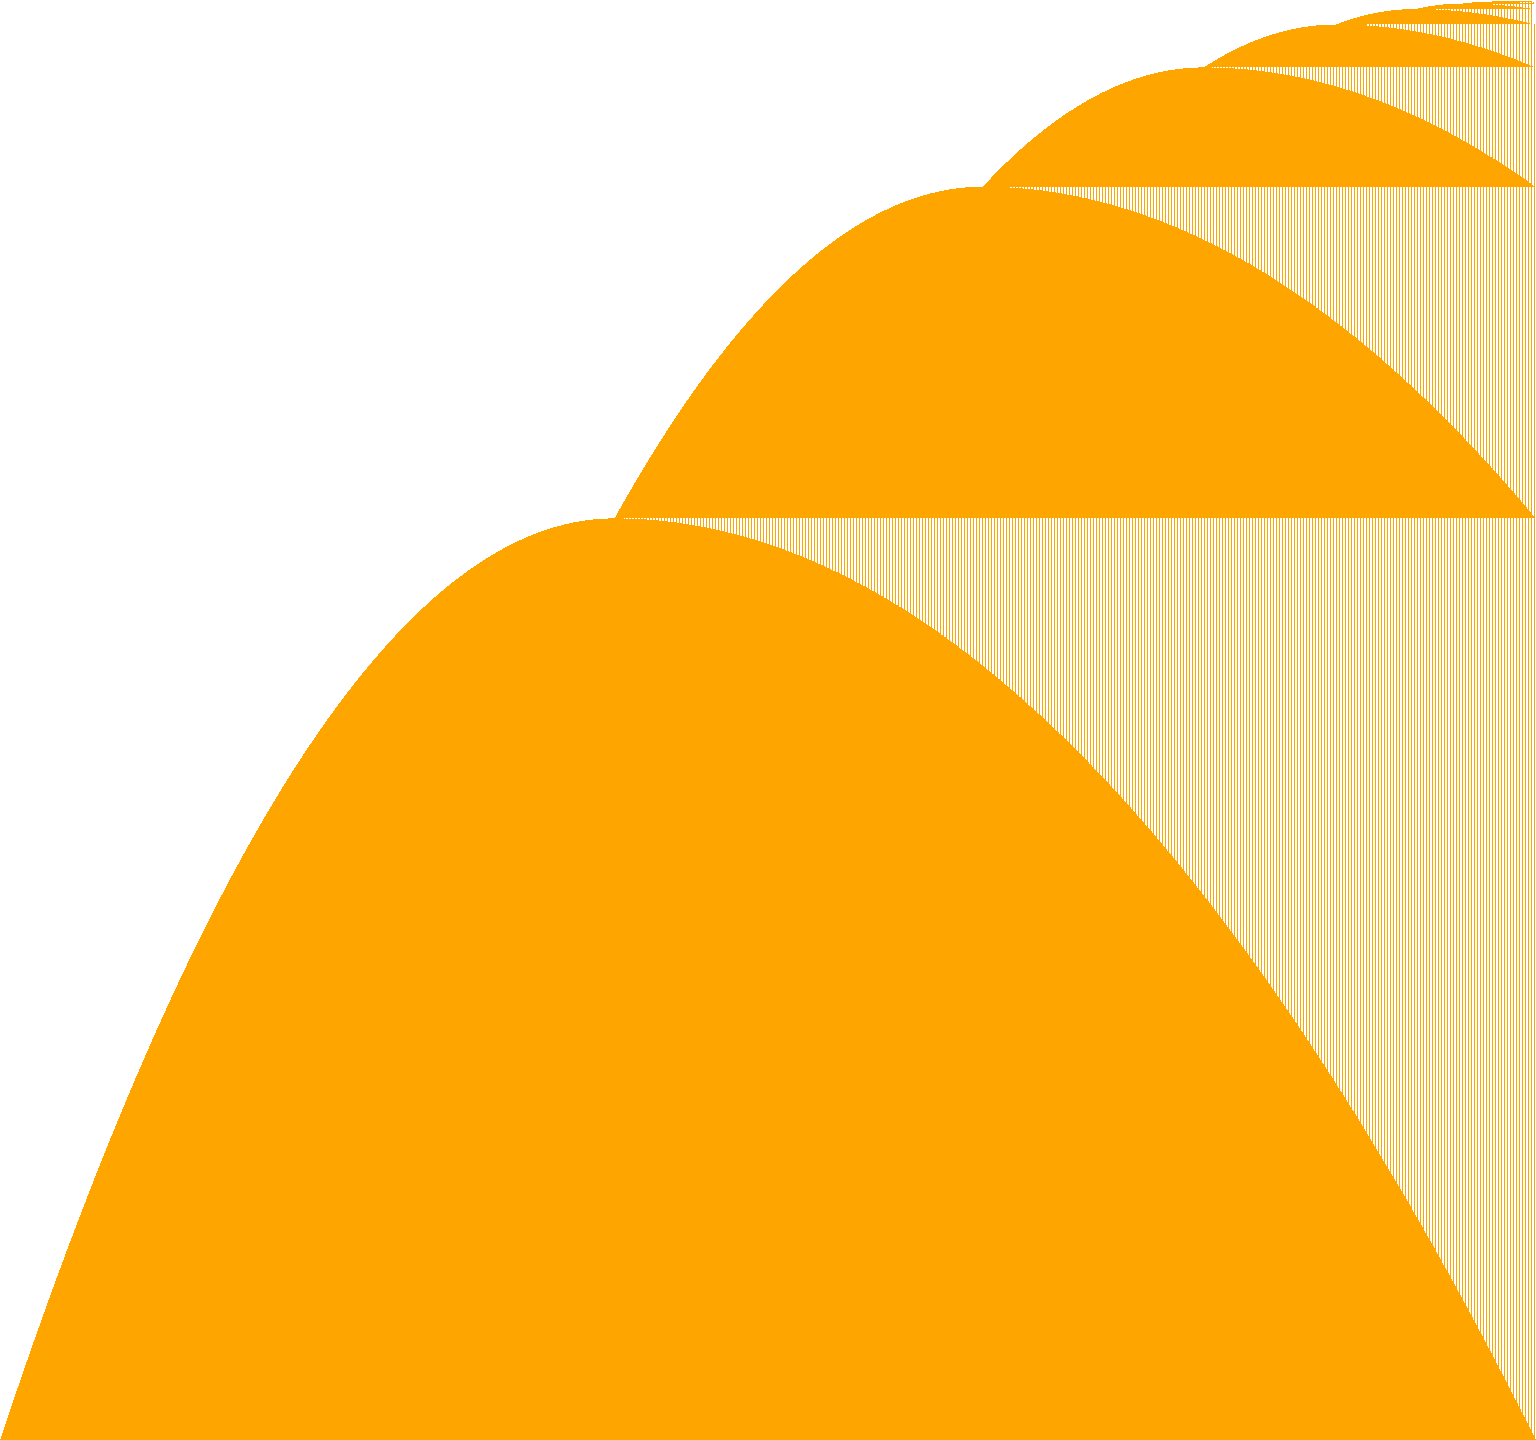
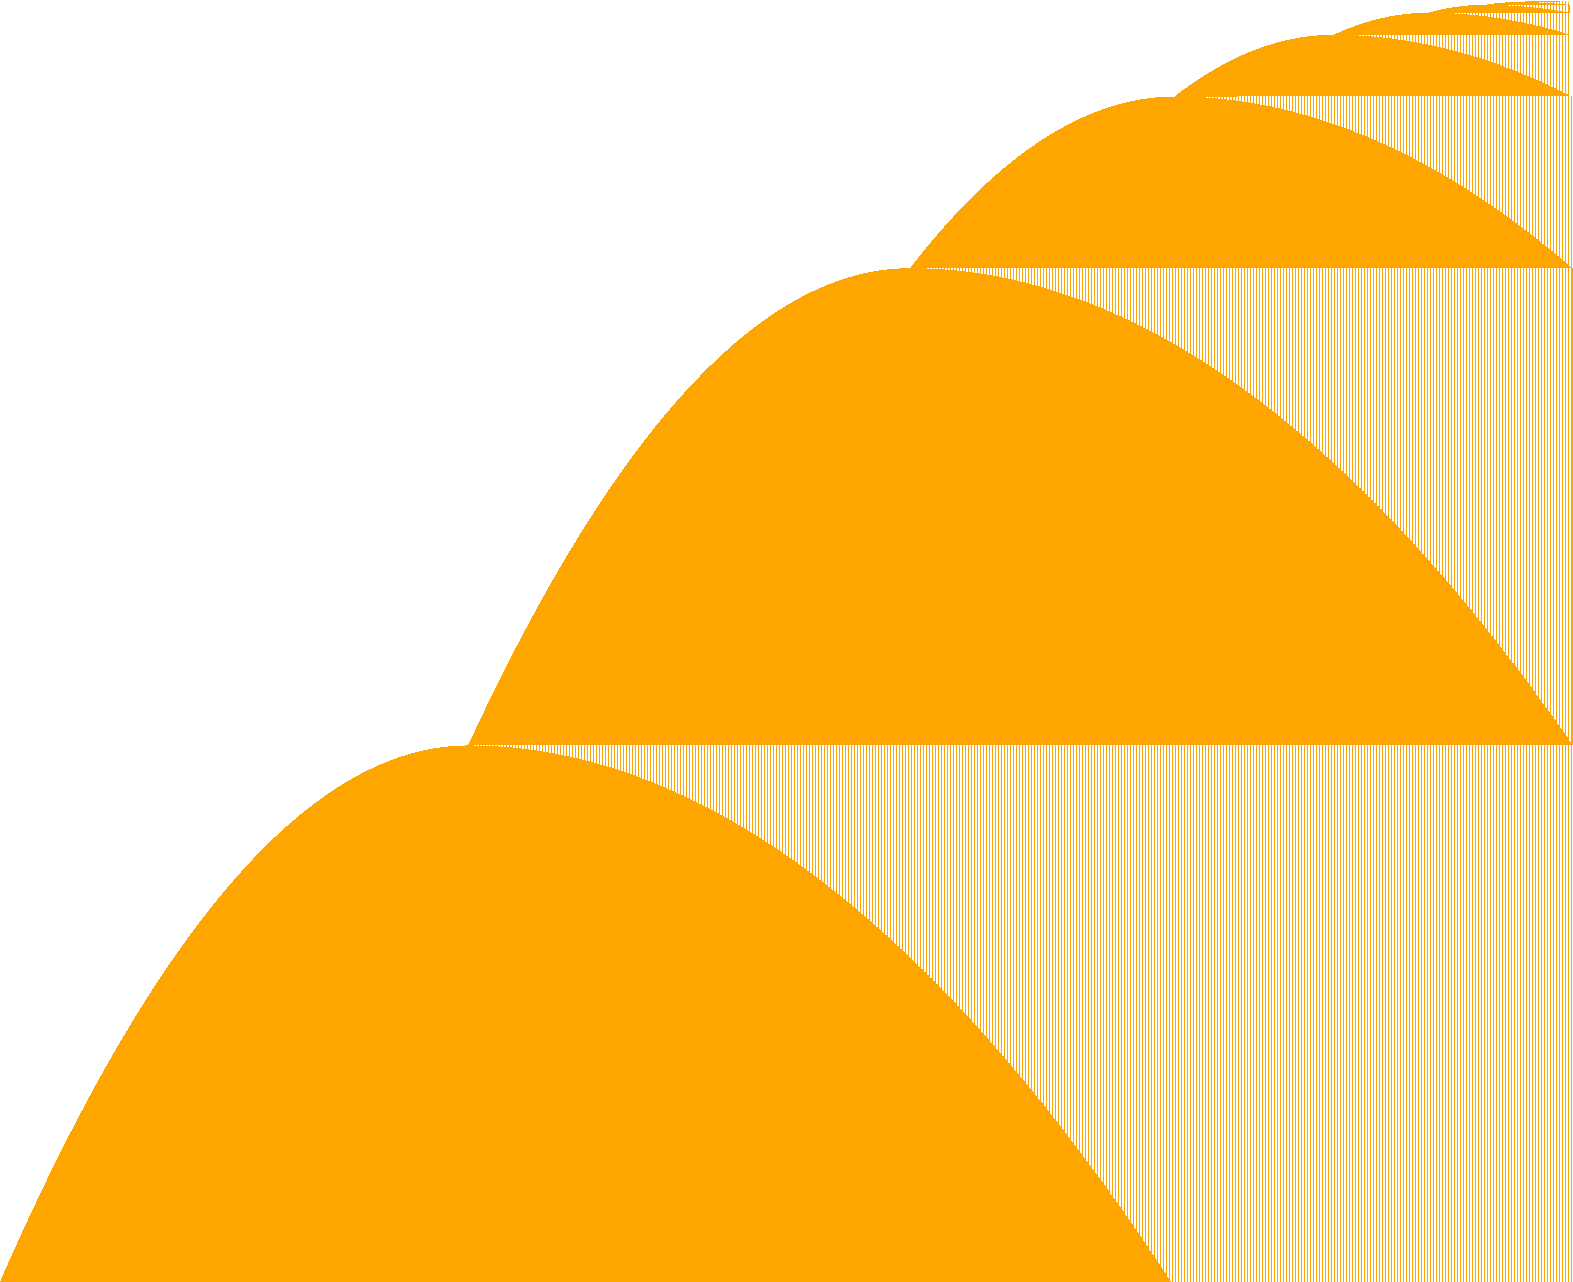
image in WASM works!

diff --git a/index.html b/index.html
@@ -20,7 +20,9 @@
 0	1RB	1RC	1RD	1LA	1RH
 1	1LC	1RB	0LE	1LD	0LA</textarea>
     <button id="runButton">Run</button>
-    <p id="result">Steps: </p>
+    <div>
+        <img id="resultImage" alt="Space-time diagram" style="max-width: 100%;">
+    </div>
     <script type="module">
         import init, { Machine } from './pkg/busy_beaver.js';
 
@@ -28,15 +30,17 @@
             await init();
             
             const textarea = document.getElementById('programInput');
-            const result = document.getElementById('result');
+            const resultImage = document.getElementById('resultImage');
             
             document.getElementById('runButton').addEventListener('click', () => {
                 try {
                     const machine = new Machine(textarea.value);
-                    const steps = machine.count_js(10_000_000);
-                    result.textContent = `Steps: ${steps.toLocaleString()}`;
+                    const png_data = machine.space_time_js(720, 864, null);
+                    const blob = new Blob([png_data], { type: 'image/png' });
+                    resultImage.src = URL.createObjectURL(blob);
                 } catch (e) {
-                    result.textContent = `Error: ${e}`;
+                    console.error(e);
+                    resultImage.alt = `Error: ${e}`;
                 }
             });
         }

diff --git a/src/lib.rs b/src/lib.rs
@@ -82,9 +82,9 @@ impl Tape {
             .sum()
     }
 
-    fn index_to_string(&self, index: i32) -> String {
-        let mut s = format!("{}: ", index);
-        for i in -10..=self.max_index() {
+    fn index_range_to_string(&self, range: std::ops::RangeInclusive<i32>) -> String {
+        let mut s = String::new();
+        for i in range {
             s.push_str(&self[i].to_string());
         }
         s
@@ -127,13 +127,25 @@ impl Machine {
     }
 
     #[wasm_bindgen]
-    pub fn count_js(&mut self, debug_interval: usize) -> usize {
+    pub fn space_time_js(&mut self, goal_x: u32, goal_y: u32, early_stop: Option<u32>) -> Vec<u8> {
+        let mut sampled_space_time = SampledSpaceTime::new(goal_x, goal_y);
+
+        while self.next().is_some()
+            && early_stop.is_none_or(|early_stop| sampled_space_time.step_count < early_stop)
+        {
+            sampled_space_time.snapshot(&self);
+        }
+
+        sampled_space_time
+            .to_png()
+            .unwrap_or_else(|e| format!("{:?}", e).into_bytes())
+    }
+
+    #[wasm_bindgen]
+    pub fn count_js(&mut self, early_stop: Option<u32>) -> u32 {
         let mut step_count = 0;
 
-        while self.step() {
-            // if step_count % debug_interval == 0 {
-            //     println!("Step {}: {:?}", step_count.separate_with_commas(), self);
-            // }
+        while self.next().is_some() && early_stop.is_none_or(|early_stop| step_count < early_stop) {
             step_count += 1;
         }
 
@@ -171,15 +183,16 @@ impl Iterator for Machine {
 
     fn next(&mut self) -> Option<Self::Item> {
         let program = &self.program;
-        if self.state as usize >= program.state_count {
-            return None;
-        }
         let input = self.tape[self.tape_index];
         let per_input = &program.inner[self.state as usize][input as usize];
         self.tape[self.tape_index] = per_input.next_symbol;
         self.tape_index += per_input.direction as i32;
         self.state = per_input.next_state;
-        Some(())
+        if (self.state as usize) < program.state_count {
+            Some(())
+        } else {
+            None
+        }
     }
 }
 
@@ -381,7 +394,8 @@ impl Default for Spaceline {
     }
 }
 
-struct Timeline {
+struct SampledSpaceTime {
+    step_count: u32,
     x_goal: u32,
     y_goal: u32,
     sample: u32,
@@ -392,23 +406,104 @@ struct Timeline {
 /// and the y_goal (time). The sample starts at 1 and
 /// inner is a vector of one spaceline
 
-impl Timeline {
+impl SampledSpaceTime {
     fn new(x_goal: u32, y_goal: u32) -> Self {
-        Timeline {
-            x_goal: x_goal,
-            y_goal: y_goal,
+        SampledSpaceTime {
+            step_count: 0,
+            x_goal,
+            y_goal,
             sample: 1,
             spacelines: vec![Spaceline::default()],
         }
     }
 
-    fn compress_if_needed(&mut self, step_count: u32) {
-        let new_sample = sample_rate(step_count, self.y_goal);
+    fn compress_if_needed(&mut self) {
+        let new_sample = sample_rate(self.step_count, self.y_goal);
         if new_sample != self.sample {
             self.spacelines
                 .retain(|spaceline| spaceline.time % new_sample == 0);
             self.sample = new_sample;
         }
+    }
+
+    fn snapshot(&mut self, machine: &Machine) {
+        self.step_count += 1;
+
+        if self.step_count % self.sample != 0 {
+            return;
+        }
+        self.compress_if_needed();
+
+        let tape = &machine.tape;
+        let tape_width = tape.width();
+        let tape_min_index = tape.min_index();
+        let tape_max_index = tape.max_index();
+        let x_sample = sample_rate(tape_width, self.x_goal);
+
+        let sample_start: i32 = tape_min_index
+            + ((x_sample as i32 - tape_min_index.rem_euclid(x_sample as i32)) % x_sample as i32);
+
+        debug_assert!(
+            sample_start >= tape_min_index
+                && sample_start % x_sample as i32 == 0
+                && sample_start - tape_min_index < x_sample as i32
+        );
+
+        let mut values = Vec::with_capacity(self.x_goal as usize * 2);
+        for sample_index in (sample_start..=tape_max_index).step_by(x_sample as usize) {
+            values.push(tape[sample_index]);
+        }
+
+        self.spacelines.push(Spaceline {
+            sample: x_sample,
+            start: sample_start,
+            values,
+            time: self.step_count,
+        });
+    }
+
+    fn to_png(&self) -> Result<Vec<u8>, Error> {
+        let last = self.spacelines.last().unwrap(); // Safe because we always have at least one
+        let x_sample: u32 = last.sample;
+        let tape_width: u32 = last.values.len() as u32 * x_sample;
+        let tape_min_index = last.start;
+        let x_actual: u32 = tape_width / x_sample;
+        let y_actual = self.spacelines.len() as u32;
+
+        let row_bytes = ((x_actual as usize) + 7) / 8;
+        let mut packed_data = vec![0u8; row_bytes * (y_actual as usize)];
+
+        // First row is always empty, so start at 1
+        for y in 1..y_actual {
+            let spaceline = &self.spacelines[y as usize];
+            let local_start = spaceline.start;
+            let local_sample = spaceline.sample;
+            let row_start_byte_index: u32 = y * row_bytes as u32;
+            let x_start = int_div_ceil(local_start - tape_min_index, x_sample as i32);
+
+            for x in x_start as u32..x_actual {
+                let tape_index: i32 = (x * x_sample) as i32 + tape_min_index;
+                debug_assert!(
+                    tape_index >= local_start,
+                    "real assert if x_start is correct"
+                );
+
+                let local_spaceline_index: i32 = (tape_index - local_start) / local_sample as i32;
+                if local_spaceline_index >= spaceline.values.len() as i32 {
+                    break;
+                }
+
+                let value = spaceline.values[local_spaceline_index as usize];
+                if value != 0 {
+                    debug_assert!(value == 1);
+                    let bit_index = 7 - (x % 8); // PNG is backwards
+                    let byte_index: u32 = x / 8 + row_start_byte_index;
+                    packed_data[byte_index as usize] |= 1 << bit_index;
+                }
+            }
+        }
+
+        encode_png(x_actual, y_actual, &packed_data)
     }
 }
 
@@ -486,8 +581,8 @@ mod tests {
     fn bb5_champ_js() -> Result<(), String> {
         let mut machine: Machine = Machine::from_string(BB5_CHAMP)?;
 
-        let debug_interval = 10_000_000;
-        let step_count = machine.count_js(debug_interval);
+        let early_stop = Some(10_000_000);
+        let step_count = machine.count_js(early_stop);
 
         println!(
             "Final: Steps {}: {:?}, #1's {}",
@@ -511,128 +606,45 @@ mod tests {
     /// See https://en.wikipedia.org/wiki/Busy_beaver
     #[test]
     fn bb5_champ_space_time() -> Result<(), Error> {
-        // let mut machine: Machine = BB5_CHAMP.parse()?; // cmk
-        let mut machine: Machine = BB5_CHAMP.parse()?;
+        let mut machine: Machine = BB5_CHAMP.parse()?; // cmk
+                                                       // let mut machine: Machine = BB6_CONTENDER.parse()?;
 
         let goal_x: u32 = 1000;
         let goal_y: u32 = 1000;
-        let mut timeline = Timeline::new(goal_x, goal_y);
+        let mut sample_space_time = SampledSpaceTime::new(goal_x, goal_y);
 
-        let early_stop = Some(100_500_000);
-        let debug_interval = Some(5_000_000);
-
-        let mut step_count = 0;
+        let early_stop = Some(10_500_000);
+        let debug_interval = Some(1_000_000);
 
         while machine.next().is_some()
-            && early_stop.is_none_or(|early_stop| step_count < early_stop)
+            && early_stop.is_none_or(|early_stop| sample_space_time.step_count < early_stop)
         {
-            step_count += 1;
-
-            if debug_interval.is_none_or(|debug_interval| step_count % debug_interval == 0) {
+            if debug_interval
+                .is_none_or(|debug_interval| sample_space_time.step_count % debug_interval == 0)
+            {
                 println!(
                     "Step {}: {:?},\t{}",
-                    step_count.separate_with_commas(),
+                    sample_space_time.step_count.separate_with_commas(),
                     machine,
-                    machine.tape.index_to_string(-10)
+                    machine.tape.index_range_to_string(-10..=10)
                 );
             }
 
-            timeline.compress_if_needed(step_count);
-            if step_count % timeline.sample != 0 {
-                continue;
-            }
-            let tape_width = machine.tape.width();
-            let tape_min_index = machine.tape.min_index();
-            let tape_max_index = machine.tape.max_index();
-            let x_sample = sample_rate(tape_width, timeline.x_goal);
-            // println!("tape_width: {}, x_sample: {}", tape_width, x_sample);
-            // if v is an integer then let s be the first s >= v s.t. s mod x_sample = 0
-            let sample_start: i32 = tape_min_index
-                + ((x_sample as i32 - tape_min_index.rem_euclid(x_sample as i32))
-                    % x_sample as i32);
-            // println!(
-            //     "tape_min_index: {}, tape_min_index_max: {}, sample_start: {}",
-            //     tape_min_index, tape_max_index, sample_start
-            // );
-            debug_assert!(
-                sample_start >= tape_min_index
-                    && sample_start % x_sample as i32 == 0
-                    && sample_start - tape_min_index < x_sample as i32
-            );
-            let mut values = Vec::with_capacity(goal_x as usize * 2);
-            for sample_index in (sample_start..=tape_max_index).step_by(x_sample as usize) {
-                // println!("...sample_index: {}", sample_index);
-                values.push(machine.tape[sample_index]);
-            }
-            let spaceline = Spaceline {
-                sample: x_sample,
-                start: sample_start,
-                values,
-                time: step_count,
-            };
-            timeline.spacelines.push(spaceline);
+            sample_space_time.snapshot(&machine);
         }
 
-        let last = timeline.spacelines.last().unwrap(); //unwrap is OK because we pushed at least one spaceline
-        let x_sample: u32 = last.sample;
-        let tape_width: u32 = last.values.len() as u32 * x_sample;
-        let tape_min_index = last.start;
-        let x_actual: u32 = tape_width / x_sample;
-        let y_actual = timeline.spacelines.len() as u32;
-        // cmk assuming 1 color per bit
-        let row_bytes = ((x_actual as usize) + 7) / 8;
-        let mut packed_data = vec![0u8; row_bytes * (y_actual as usize)];
-        // first row is always empty, so start at 1
-        for y in 1..y_actual {
-            let spaceline = &timeline.spacelines[y as usize];
-            let local_start = spaceline.start;
-            // println!("cmk: local_start: {}", local_start);
-            let local_sample = spaceline.sample;
-            let row_start_byte_index: u32 = y * row_bytes as u32;
-            let x_start = int_div_ceil(local_start - tape_min_index, x_sample as i32);
-            // println!("y: {}, x_start: {}", y, x_start);
-            for x in x_start as u32..x_actual {
-                let tape_index: i32 = (x * x_sample) as i32 + tape_min_index;
-                // if tape_index < local_start {
-                //     continue;
-                // }
-                debug_assert!(
-                    tape_index >= local_start,
-                    "real assert sif x_start is correct"
-                );
-                // println!(
-                //     "y: {}, x: {}, tape_index: {}, x_sample: {}, local_sample: {}",
-                //     y, x, tape_index, x_sample, local_sample
-                // );
-                // if (tape_index - tape_min) % x_sample as i32 != 0 {
-                //     continue;
-                // }
-                let local_spaceline_index: i32 = (tape_index - local_start) / local_sample as i32;
-                if local_spaceline_index >= spaceline.values.len() as i32 {
-                    break;
-                }
-                let value = spaceline.values[local_spaceline_index as usize];
-                if value != 0 {
-                    debug_assert!(value == 1);
-                    let bit_index = 7 - (x % 8); // PNG is backwards
-                    let byte_index: u32 = x / 8 + row_start_byte_index;
-                    packed_data[byte_index as usize] |= 1 << bit_index;
-                }
-            }
-        }
-
-        let png_data = encode_png(x_actual, y_actual, &packed_data)?;
+        let png_data = sample_space_time.to_png()?;
         fs::write("test.png", &png_data).unwrap(); // cmk handle error
 
         println!(
             "Final: Steps {}: {:?}, #1's {}",
-            step_count.separate_with_commas(),
+            sample_space_time.step_count.separate_with_commas(),
             machine,
             machine.tape.count_ones()
         );
 
         if early_stop.is_none() {
-            assert_eq!(step_count, 47_176_870);
+            assert_eq!(sample_space_time.step_count, 47_176_870);
             assert_eq!(machine.tape.count_ones(), 4098);
             assert_eq!(machine.state, 7);
             assert_eq!(machine.tape_index, -12242);

diff --git a/useful.md b/useful.md
@@ -12,3 +12,9 @@ cargo build --release
 ```bash
 cargo test bb5_champ_space_time --release -- --nocapture
 ```
+
+## Package for WASM
+
+```bash
+wasm-pack build --target web --release
+```
